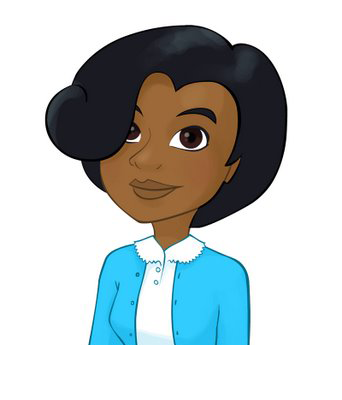
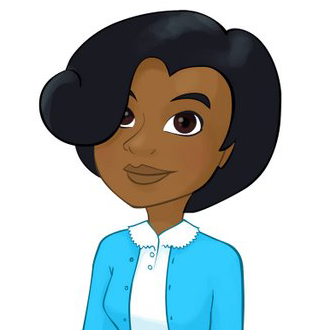
updated

diff --git a/style/big.css b/style/big.css
@@ -129,13 +129,13 @@ h6 {
 }
 
 .topPanelContent {
-	width: 850px;
+	width: 730px;
 	margin: 0 auto;
 }
 
 .profile_img img {
-	border-radius: 200px;
-	padding: 7px 0px;
+	padding: 70px 0px;
+  margin-right: 18px;
 }
 
 .topPanelContent ul {
@@ -146,7 +146,6 @@ h6 {
 
 .topPanelContent ul li {
 	float: left;
-	/*margin: 0px;*/
 }
 
 .second_content {
@@ -251,7 +250,7 @@ p {
 #topPanel{
 	background: #222;
 	display: none;
-	
+	height: 330px !important;
 }
 
 #topPanel .gwrap{

diff --git a/index.html b/index.html
@@ -52,7 +52,7 @@
   <!--click me-->
   <div id="map-wrapper">      
     <div id="topLine"></div>
-    <div id="topPanel">
+    <div id="topPanel" style="height:330px;">
       <div class="topPanelContent">
         <ul>
           <li><div class="profile_img"><a href="https://twitter.com/ArtLoe"><img src="images/richill1.png" alt="Richill"></a></div></li>
@@ -474,6 +474,7 @@
     <!--contents end-->
   </div>
   <!--wrapper end-->
-        
+    
+      
 </body>
 </html>
